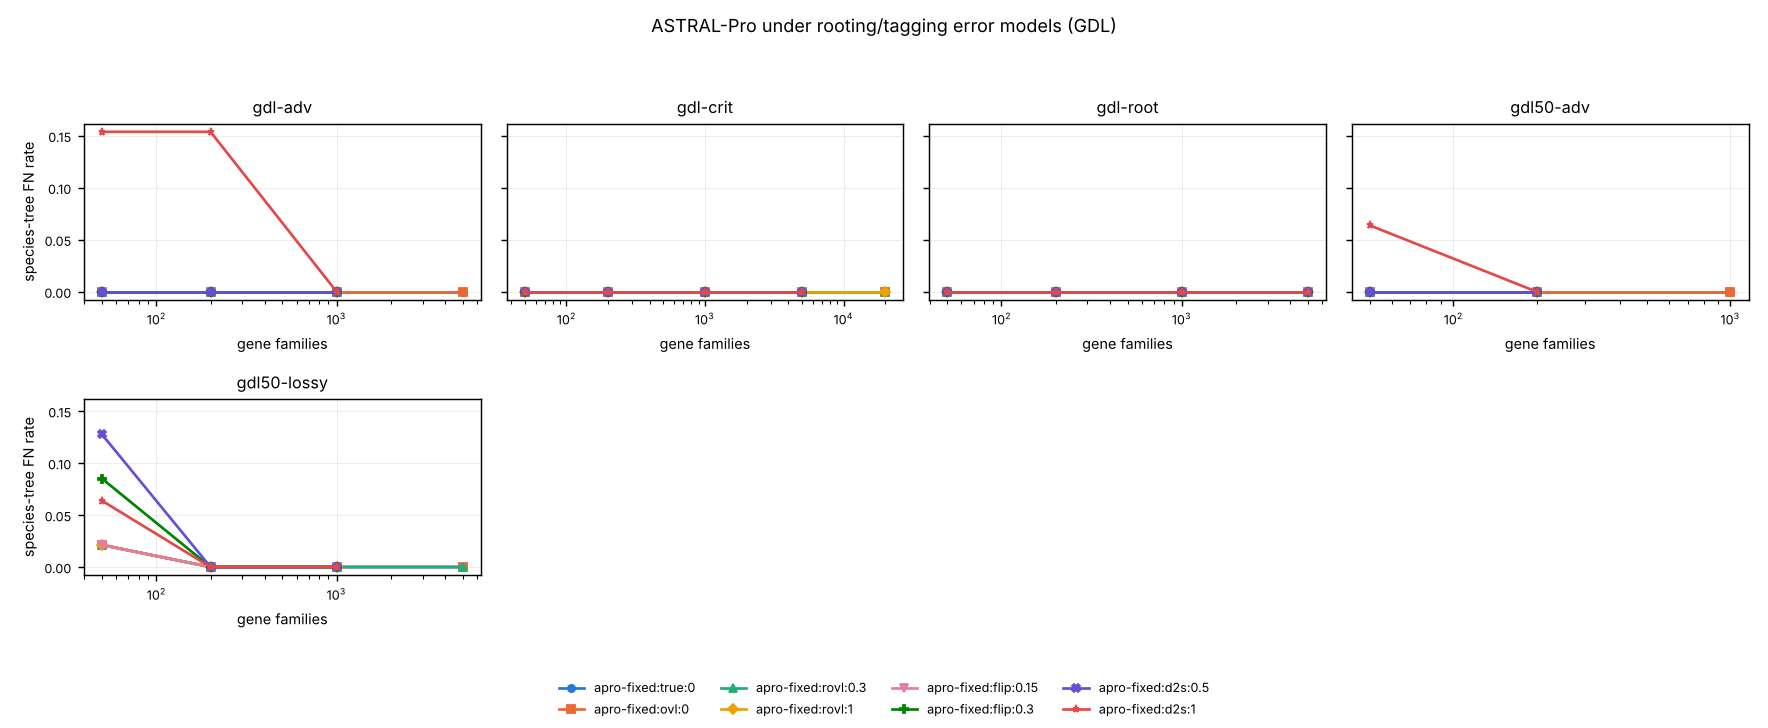
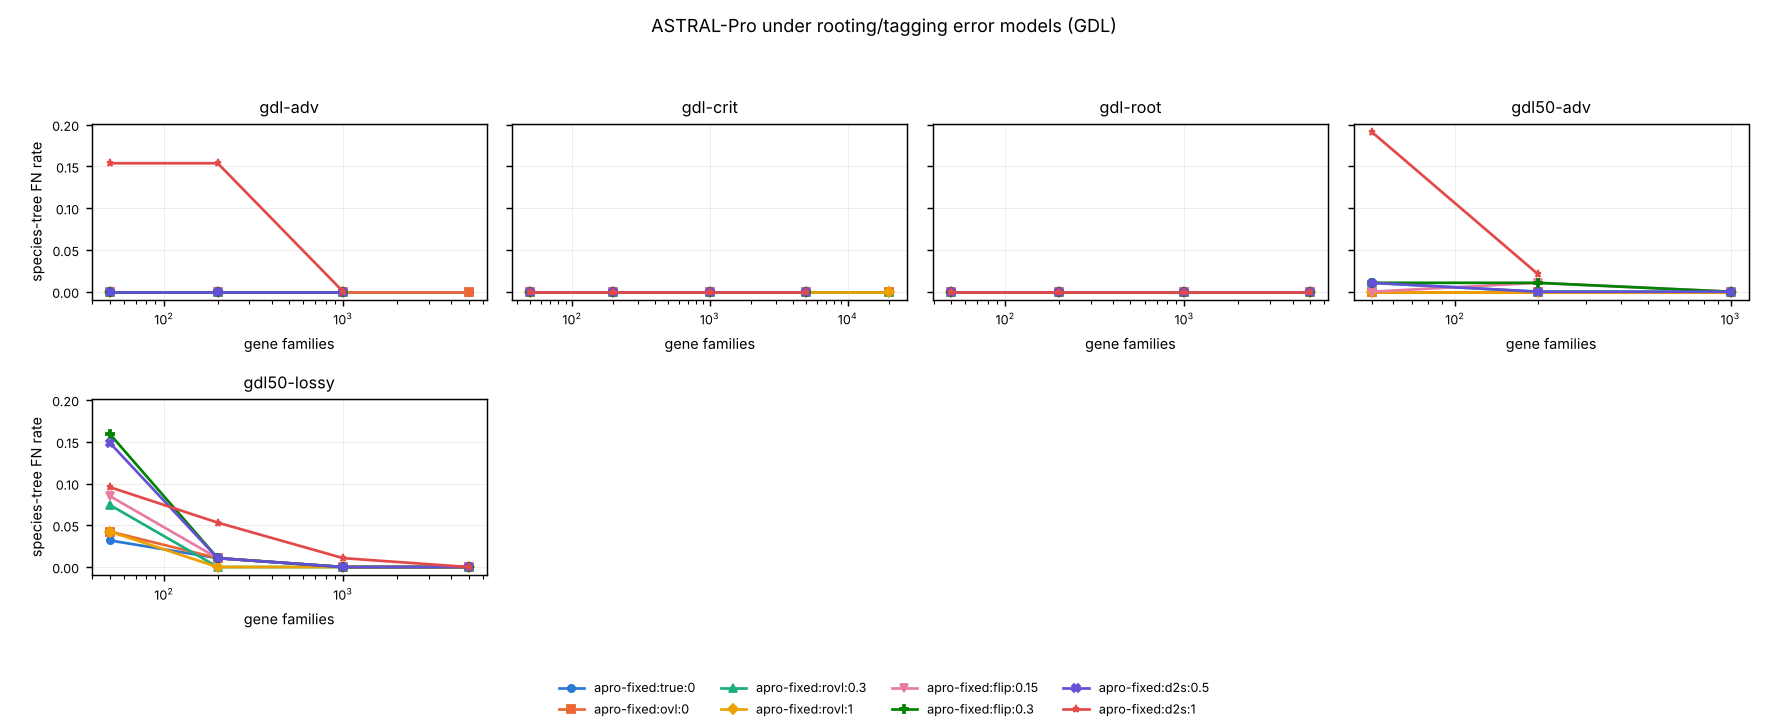
gdlcons: method atlas results (GDL + DLCOAL to 20,000 families)
Claude-Session: https://claude.ai/code/session_017ko431PE4LESFrE9aX84WU

diff --git a/cs581/gdlcons/code/astrid4.py b/cs581/gdlcons/code/astrid4.py
@@ -1,0 +1,26 @@
+"""Limiting ASTRID-multi four-point comparison on a 4-taxon pool, with block SEs.
+ASTRID-multi = per-family mean internode distance over copy pairs, averaged over families
+(all families contain all 4 species here).  Correct split AB|CD needs
+S_AB = d(A,B) + d(C,D) to be the smallest of the three sums.
+usage: python astrid4.py POOL NFAM BLOCK"""
+import os, sys, statistics as st
+import numpy as np
+sys.path.insert(0, os.path.dirname(os.path.abspath(__file__)))
+import core, methods as M
+pool, n, B = sys.argv[1], int(sys.argv[2]), int(sys.argv[3])
+fams = [l for l in open(pool) if ';' in l][:n]
+spi = {s: i for i, s in enumerate("ABCD")}
+per = []
+for f in fams:
+    rt, _ = core.true_rt(f, spi)
+    ls = [spi[core.sp_of(rt.label[v])] if not rt.children[v] else -1 for v in range(len(rt.parent))]
+    m, h = M.gene_distances(rt, [False] * len(rt.parent), ls, 4, mode="multi")
+    per.append(m)
+per = np.array(per)
+def sums(D):
+    return D[0, 1] + D[2, 3], D[0, 2] + D[1, 3], D[0, 3] + D[1, 2]
+blocks = [sums(per[i:i + B].mean(axis=0)) for i in range(0, len(per) - B + 1, B)]
+for name, j in (("AC|BD", 1), ("AD|BC", 2)):
+    d = [b[j] - b[0] for b in blocks]   # positive = correct split shorter = good
+    print("%s - AB|CD four-point sum: %.4f +- %.4f (blocks=%d)" % (name, st.mean(d), st.stdev(d) / len(d) ** 0.5, len(d)))
+print("overall sums AB|CD, AC|BD, AD|BC:", [round(x, 4) for x in sums(per.mean(axis=0))])

diff --git a/cs581/gdlcons/results/curves_summary.md b/cs581/gdlcons/results/curves_summary.md
@@ -4,57 +4,57 @@ Each cell: mean FN rate (n replicates). FN rate = missing true bipartitions / (n
 
 ## dlc-asym
 
-| method | 50 | 200 | 1000 | 5000 |
-|---|---|---|---|---|
-| astral-pro | 0.000 (3) | 0.026 (3) | 0.000 (3) | 0.000 (3) |
-| astrid-multi | 0.051 (3) | 0.051 (3) | 0.000 (3) | 0.000 (3) |
-| astrid-disco | 0.000 (3) | 0.026 (3) | 0.000 (3) | 0.000 (3) |
-| astral-disco | 0.000 (3) | 0.026 (3) | 0.000 (3) | 0.000 (3) |
-| fastmulrfs | 0.051 (3) | 0.077 (3) | 0.000 (3) | 0.000 (3) |
-| stag | 0.051 (3) | 0.026 (3) | 0.000 (3) | 0.000 (3) |
+| method | 50 | 200 | 1000 | 5000 | 20000 |
+|---|---|---|---|---|---|
+| astral-pro | 0.000 (3) | 0.026 (3) | 0.000 (3) | 0.000 (3) | 0.000 (3) |
+| astrid-multi | 0.051 (3) | 0.051 (3) | 0.000 (3) | 0.000 (3) | 0.000 (3) |
+| astrid-disco | 0.000 (3) | 0.026 (3) | 0.000 (3) | 0.000 (3) | 0.000 (3) |
+| astral-disco | 0.000 (3) | 0.026 (3) | 0.000 (3) | 0.000 (3) | 0.000 (3) |
+| fastmulrfs | 0.051 (3) | 0.077 (3) | 0.000 (3) | 0.000 (3) | 0.000 (3) |
+| stag | 0.051 (3) | 0.026 (3) | 0.000 (3) | 0.000 (3) | 0.000 (3) |
 
 ## dlc-high
 
-| method | 50 | 200 | 1000 | 5000 |
-|---|---|---|---|---|
-| astral-pro | 0.154 (3) | 0.026 (3) | 0.026 (3) | 0.000 (3) |
-| astrid-multi | 0.179 (3) | 0.077 (3) | 0.051 (3) | 0.051 (3) |
-| astrid-disco | 0.103 (3) | 0.026 (3) | 0.026 (3) | 0.026 (3) |
-| astral-disco | 0.154 (3) | 0.026 (3) | 0.026 (3) | 0.000 (3) |
-| fastmulrfs | 0.154 (3) | 0.051 (3) | 0.000 (3) | 0.000 (3) |
-| stag | 0.538 (1) | 0.538 (1) | 0.192 (2) | 0.128 (3) |
+| method | 50 | 200 | 1000 | 5000 | 20000 |
+|---|---|---|---|---|---|
+| astral-pro | 0.154 (3) | 0.026 (3) | 0.026 (3) | 0.000 (3) | 0.000 (1) |
+| astrid-multi | 0.179 (3) | 0.077 (3) | 0.051 (3) | 0.051 (3) | 0.077 (1) |
+| astrid-disco | 0.103 (3) | 0.026 (3) | 0.026 (3) | 0.026 (3) | 0.000 (1) |
+| astral-disco | 0.154 (3) | 0.026 (3) | 0.026 (3) | 0.000 (3) | 0.000 (1) |
+| fastmulrfs | 0.154 (3) | 0.051 (3) | 0.000 (3) | 0.000 (3) | 0.000 (1) |
+| stag | 0.538 (1) | 0.538 (1) | 0.192 (2) | 0.128 (3) | 0.077 (1) |
 
 ## dlc-ils
 
-| method | 50 | 200 | 1000 | 5000 |
-|---|---|---|---|---|
-| astral-pro | 0.103 (3) | 0.051 (3) | 0.026 (3) | 0.026 (3) |
-| astrid-multi | 0.128 (3) | 0.051 (3) | 0.051 (3) | 0.026 (3) |
-| astrid-disco | 0.077 (3) | 0.077 (3) | 0.051 (3) | 0.000 (3) |
-| astral-disco | 0.077 (3) | 0.077 (3) | 0.026 (3) | 0.026 (3) |
-| fastmulrfs | 0.179 (3) | 0.154 (3) | 0.000 (3) | 0.026 (3) |
-| stag | 0.577 (2) | 0.269 (2) | 0.051 (3) | 0.077 (3) |
+| method | 50 | 200 | 1000 | 5000 | 20000 |
+|---|---|---|---|---|---|
+| astral-pro | 0.103 (3) | 0.051 (3) | 0.026 (3) | 0.026 (3) | 0.026 (3) |
+| astrid-multi | 0.128 (3) | 0.051 (3) | 0.051 (3) | 0.026 (3) | 0.000 (3) |
+| astrid-disco | 0.077 (3) | 0.077 (3) | 0.051 (3) | 0.000 (3) | 0.000 (3) |
+| astral-disco | 0.077 (3) | 0.077 (3) | 0.026 (3) | 0.026 (3) | 0.026 (3) |
+| fastmulrfs | 0.179 (3) | 0.154 (3) | 0.000 (3) | 0.026 (3) | 0.000 (3) |
+| stag | 0.577 (2) | 0.269 (2) | 0.051 (3) | 0.077 (3) | 0.000 (3) |
 
 ## dlc-mod
 
-| method | 50 | 200 | 1000 | 5000 |
-|---|---|---|---|---|
-| astral-pro | 0.026 (3) | 0.026 (3) | 0.000 (3) | 0.000 (3) |
-| astrid-multi | 0.051 (3) | 0.000 (3) | 0.000 (3) | 0.000 (3) |
-| astrid-disco | 0.051 (3) | 0.026 (3) | 0.000 (3) | 0.000 (3) |
-| astral-disco | 0.051 (3) | 0.026 (3) | 0.000 (3) | 0.000 (3) |
-| fastmulrfs | 0.026 (3) | 0.026 (3) | 0.026 (3) | 0.000 (3) |
-| stag | 0.256 (3) | 0.051 (3) | 0.051 (3) | 0.000 (3) |
+| method | 50 | 200 | 1000 | 5000 | 20000 |
+|---|---|---|---|---|---|
+| astral-pro | 0.026 (3) | 0.026 (3) | 0.000 (3) | 0.000 (3) | 0.000 (3) |
+| astrid-multi | 0.051 (3) | 0.000 (3) | 0.000 (3) | 0.000 (3) | 0.000 (3) |
+| astrid-disco | 0.051 (3) | 0.026 (3) | 0.000 (3) | 0.000 (3) | 0.000 (3) |
+| astral-disco | 0.051 (3) | 0.026 (3) | 0.000 (3) | 0.000 (3) | 0.000 (3) |
+| fastmulrfs | 0.026 (3) | 0.026 (3) | 0.026 (3) | 0.000 (3) | 0.000 (3) |
+| stag | 0.256 (3) | 0.051 (3) | 0.051 (3) | 0.000 (3) | 0.000 (3) |
 
 ## dlc50-ils
 
-| method | 50 | 200 | 1000 |
-|---|---|---|---|
-| astral-pro | 0.213 (1) | 0.064 (1) | 0.043 (1) |
-| astrid-multi | 0.191 (1) | 0.064 (1) | 0.000 (1) |
-| astrid-disco | 0.064 (1) | 0.085 (1) | 0.021 (1) |
-| astral-disco | 0.234 (1) | 0.085 (1) | 0.021 (1) |
-| fastmulrfs | 0.255 (1) | 0.149 (1) | 0.064 (1) |
+| method | 50 | 200 | 1000 | 5000 |
+|---|---|---|---|---|
+| astral-pro | 0.213 (1) | 0.064 (1) | 0.043 (1) | 0.000 (1) |
+| astrid-multi | 0.191 (1) | 0.064 (1) | 0.000 (1) | 0.000 (1) |
+| astrid-disco | 0.064 (1) | 0.085 (1) | 0.021 (1) | 0.000 (1) |
+| astral-disco | 0.234 (1) | 0.085 (1) | 0.021 (1) | 0.000 (1) |
+| fastmulrfs | 0.255 (1) | 0.149 (1) | 0.064 (1) |  |
 
 ## gdl-adv
 
@@ -126,43 +126,43 @@ Each cell: mean FN rate (n replicates). FN rate = missing true bipartitions / (n
 
 | method | 50 | 200 | 1000 |
 |---|---|---|---|
-| astral-pro | 0.000 (1) | 0.000 (1) |  |
-| astrid-multi | 0.021 (1) | 0.000 (1) |  |
-| astrid-disco | 0.000 (1) | 0.000 (1) |  |
-| astral-disco | 0.000 (1) | 0.000 (1) |  |
-| fastmulrfs | 0.000 (1) | 0.000 (1) |  |
+| astral-pro | 0.011 (2) | 0.011 (2) |  |
+| astrid-multi | 0.032 (2) | 0.011 (2) |  |
+| astrid-disco | 0.011 (2) | 0.011 (2) |  |
+| astral-disco | 0.011 (2) | 0.011 (2) |  |
+| fastmulrfs | 0.043 (2) | 0.011 (2) |  |
 | stag | 0.128 (1) | 0.021 (1) |  |
-| apro-fixed:d2s:0.5 | 0.000 (1) | 0.000 (1) |  |
-| apro-fixed:d2s:1 | 0.064 (1) | 0.000 (1) |  |
-| apro-fixed:flip:0.05 | 0.000 (1) | 0.000 (1) |  |
-| apro-fixed:flip:0.15 | 0.000 (1) | 0.000 (1) |  |
-| apro-fixed:flip:0.3 | 0.000 (1) | 0.000 (1) |  |
-| apro-fixed:ovl:0 | 0.000 (1) | 0.000 (1) | 0.000 (1) |
-| apro-fixed:rovl:0.1 | 0.000 (1) | 0.000 (1) | 0.000 (1) |
-| apro-fixed:rovl:0.3 | 0.000 (1) | 0.000 (1) |  |
-| apro-fixed:rovl:1 | 0.000 (1) | 0.000 (1) |  |
-| apro-fixed:s2d:0.5 | 0.000 (1) | 0.000 (1) |  |
-| apro-fixed:true:0 | 0.000 (1) | 0.000 (1) | 0.000 (1) |
+| apro-fixed:d2s:0.5 | 0.011 (2) | 0.000 (2) | 0.000 (1) |
+| apro-fixed:d2s:1 | 0.191 (2) | 0.021 (2) |  |
+| apro-fixed:flip:0.05 | 0.000 (2) | 0.000 (2) | 0.000 (2) |
+| apro-fixed:flip:0.15 | 0.000 (2) | 0.011 (2) | 0.000 (2) |
+| apro-fixed:flip:0.3 | 0.011 (2) | 0.011 (2) | 0.000 (1) |
+| apro-fixed:ovl:0 | 0.000 (2) | 0.000 (2) | 0.000 (2) |
+| apro-fixed:rovl:0.1 | 0.000 (2) | 0.000 (2) | 0.000 (2) |
+| apro-fixed:rovl:0.3 | 0.011 (2) | 0.000 (2) | 0.000 (2) |
+| apro-fixed:rovl:1 | 0.000 (2) | 0.000 (2) | 0.000 (2) |
+| apro-fixed:s2d:0.5 | 0.000 (2) | 0.000 (2) |  |
+| apro-fixed:true:0 | 0.000 (2) | 0.000 (2) | 0.000 (2) |
 
 ## gdl50-lossy
 
 | method | 50 | 200 | 1000 | 5000 |
 |---|---|---|---|---|
-| astral-pro | 0.021 (1) | 0.000 (1) | 0.000 (1) |  |
-| astrid-multi | 0.064 (1) | 0.000 (1) | 0.000 (1) |  |
-| astrid-disco | 0.043 (1) | 0.000 (1) | 0.000 (1) |  |
-| astral-disco | 0.021 (1) | 0.000 (1) | 0.000 (1) |  |
-| fastmulrfs | 0.106 (1) | 0.000 (1) | 0.000 (1) |  |
-| apro-fixed:d2s:0.5 | 0.128 (1) | 0.000 (1) | 0.000 (1) |  |
-| apro-fixed:d2s:1 | 0.064 (1) | 0.000 (1) | 0.000 (1) |  |
-| apro-fixed:flip:0.05 | 0.021 (1) | 0.000 (1) | 0.000 (1) |  |
-| apro-fixed:flip:0.15 | 0.021 (1) | 0.000 (1) | 0.000 (1) |  |
-| apro-fixed:flip:0.3 | 0.085 (1) | 0.000 (1) | 0.000 (1) |  |
-| apro-fixed:ovl:0 | 0.021 (1) | 0.000 (1) | 0.000 (1) | 0.000 (1) |
-| apro-fixed:rovl:0.1 | 0.021 (1) | 0.000 (1) | 0.000 (1) | 0.000 (1) |
-| apro-fixed:rovl:0.3 | 0.021 (1) | 0.000 (1) | 0.000 (1) | 0.000 (1) |
-| apro-fixed:rovl:1 | 0.021 (1) | 0.000 (1) | 0.000 (1) |  |
-| apro-fixed:s2d:0.5 | 0.021 (1) | 0.000 (1) | 0.000 (1) |  |
-| apro-fixed:true:0 | 0.021 (1) | 0.000 (1) | 0.000 (1) | 0.000 (1) |
+| astral-pro | 0.053 (2) | 0.011 (2) | 0.000 (2) |  |
+| astrid-multi | 0.138 (2) | 0.064 (2) | 0.021 (2) |  |
+| astrid-disco | 0.128 (2) | 0.043 (2) | 0.000 (2) |  |
+| astral-disco | 0.043 (2) | 0.000 (2) | 0.000 (2) |  |
+| fastmulrfs | 0.106 (2) | 0.021 (2) | 0.000 (2) |  |
+| apro-fixed:d2s:0.5 | 0.149 (2) | 0.011 (2) | 0.000 (2) | 0.000 (1) |
+| apro-fixed:d2s:1 | 0.096 (2) | 0.053 (2) | 0.011 (2) | 0.000 (1) |
+| apro-fixed:flip:0.05 | 0.032 (2) | 0.011 (2) | 0.000 (2) | 0.000 (1) |
+| apro-fixed:flip:0.15 | 0.085 (2) | 0.011 (2) | 0.000 (2) | 0.000 (1) |
+| apro-fixed:flip:0.3 | 0.160 (2) | 0.011 (2) | 0.000 (2) | 0.000 (1) |
+| apro-fixed:ovl:0 | 0.043 (2) | 0.011 (2) | 0.000 (2) | 0.000 (1) |
+| apro-fixed:rovl:0.1 | 0.043 (2) | 0.011 (2) | 0.000 (2) | 0.000 (1) |
+| apro-fixed:rovl:0.3 | 0.074 (2) | 0.000 (2) | 0.000 (2) | 0.000 (1) |
+| apro-fixed:rovl:1 | 0.043 (2) | 0.000 (2) | 0.000 (2) | 0.000 (1) |
+| apro-fixed:s2d:0.5 | 0.138 (2) | 0.032 (2) | 0.000 (2) |  |
+| apro-fixed:true:0 | 0.032 (2) | 0.011 (2) | 0.000 (2) | 0.000 (1) |
 
-Runs that failed (method error or timeout): dlc-high/stag: 5, dlc-ils/stag: 2, dlc50-ils/stag: 3, gdl50-lossy/stag: 3
+Runs that failed (method error or timeout): dlc-high/stag: 5, dlc-ils/stag: 2, dlc50-ils/stag: 3, gdl50-adv/stag: 2, gdl50-lossy/stag: 6

diff --git a/cs581/gdlcons/REPORT.md b/cs581/gdlcons/REPORT.md
@@ -230,7 +230,27 @@ Source: `results/tagging_accuracy.jsonl`, 1,000 families per setting.
 
 Tables: `results/curves_summary.md`. Figure: `results/atlas_curves.png`.
 
-__ATLAS__
+Each cell below is the mean FN rate over 3 replicate species trees. Selected columns; everything is in `results/curves_summary.md`.
+
+| setting | families | ASTRAL-Pro3 | ASTRID-multi | ASTRID-DISCO | ASTRAL-DISCO | FastMulRFS | STAG |
+|---|---|---|---|---|---|---|---|
+| gdl-crit / -high / -adv / -root (16 taxa) | 50 | 0 | 0 | 0 | 0 | 0 | 0 |
+| gdl50-lossy (50 taxa) | 1,000 | 0 | 0.021 | 0 | 0 | 0 | (fails: no family has all species) |
+| dlc-mod | 20,000 | 0 | 0 | 0 | 0 | 0 | 0 |
+| dlc-ils (Ne = 10⁶) | 5,000 / 20,000 | 0.026 / 0.026 | 0.026 / 0 | 0 / 0 | 0.026 / 0.026 | 0.026 / 0 | 0.077 / 0 |
+| dlc-high (dup = loss = 1.5·10⁻⁶) | 5,000 / 20,000* | 0 / 0 | 0.051 / 0.077 | 0.026 / 0 | 0 / 0 | 0 / 0 | 0.128 / 0.077 |
+| dlc-asym (dup 1.5·10⁻⁶ > loss 3·10⁻⁷) | 20,000 | 0 | 0 | 0 | 0 | 0 | 0 |
+| dlc50-ils (50 taxa, 1 rep) | 5,000 | 0 | 0 | 0 | 0 | — | — |
+
+\*Only one replicate at 20,000: SimPhy produced fewer than 20,000 families with ≥ 4 species in replicates 0 and 2 (18,909 and 16,785).
+
+- **Pure GDL with true gene trees is easy for every method.** All 16-taxon settings reach FN = 0 at 50 families, including the sibling's adversarial rates, so there is no plateau.
+- **DLCOAL.** Every remaining error at 20,000 families is a single bipartition on one 3,407-generation internal branch of the replicate-1 species tree (about 0.002 coalescent units in dlc-ils). That is not evidence of inconsistency:
+  - methods take turns failing it (ASTRAL-type in dlc-ils, ASTRID-multi and STAG in dlc-high);
+  - ASTRAL-Pro's quartet margin there at 20,000 families is −1.4%, about the size of the sampling noise.
+- **STAG** is the slowest. It cannot run at all when no family contains every species, which happened in the 50-taxon and high-duplication settings.
+- **Bottom line for question 2 on generic data:** no method shows a plateau. The adversarial pools (5.2) are where they differ.
+
 
 ### 5.2 Adversarial 4-taxon pools
 
@@ -252,7 +272,7 @@ Full tables: `results/counterexample_summary.md`. Figure: `results/counterexampl
 - The DISCO pipelines inherit ASTRAL-Pro's rooting and tagging, so they fail exactly when ASTRAL-Pro does.
 - STAG survives hidden paralogs (closest-copy distances) but fails when a high-turnover lineage dominates (cand4).
 - FastMulRFS fails on cand1. That is consistent with its theorem: duplications above the ABC clade followed by loss create "adversarial" bipartitions there.
-- ASTRID-multi is wrong in 4/4 datasets of 10,000 families on cand1. That is a candidate for the sibling session's open question (is ASTRID-multi consistent under GDL?), but 4 datasets are not a proof; it needs the exact-expectation treatment.
+- ASTRID-multi is wrong in 4/4 datasets of 10,000 families on cand1. But its limiting four-point sums are a near tie: AC|BD is shorter than AB|CD by 0.024 ± 0.016, out of sums of about 19.7, which is 1.5 SE (`code/astrid4.py`, `results/astrid4.log`). So it is a *candidate* for the sibling session's open question (is ASTRID-multi consistent under GDL?), not a demonstration.
 - ASTRAL-multi sits at near ties on cand1 and cand2, so I make no claim either way.
 - All of these use 4-taxon trees with extreme branch-specific rates. They show *how* each method can fail, not that the failures are typical.
 
